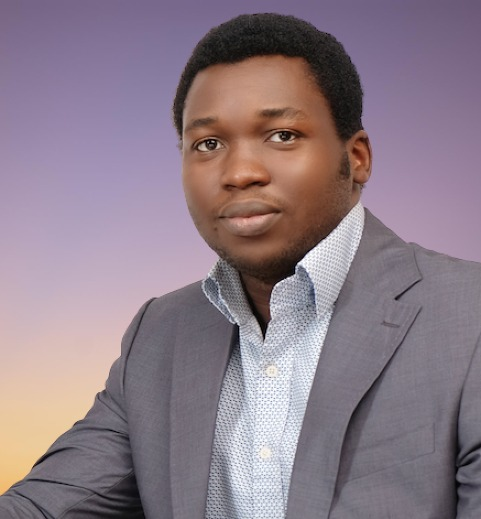
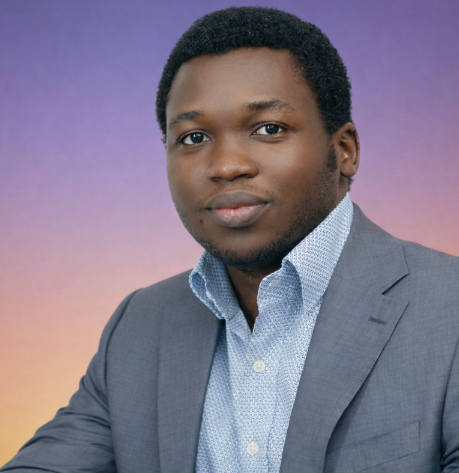
update photo amd modal

diff --git a/src/components/Projects/Projects.tsx b/src/components/Projects/Projects.tsx
@@ -39,7 +39,7 @@ const Work = () => {
         {work.map((project: WorkInterface, index: number) => {
           return (
             <div key={project.link} className="work_wrapper">
-              <div className="relative image" style={{
+              <div className={`relative image ${!project.photos?.length ? 'hidden md:block' : ''}`} style={{
                 marginLeft: willFloatRight(index) ? '' : 'auto'
               }}>
                 {!!project.photos?.length && <>
@@ -54,7 +54,7 @@ const Work = () => {
                       objectFit: 'contain' 
                     }} />
                   <button 
-                    className={`absolute bottom-2 ${willFloatRight(index) ? 'left-2' : 'right-2'} z-[999]`}
+                    className={`hidden lg:block absolute bottom-2 ${willFloatRight(index) ? 'left-2' : 'right-2'} z-[999]`}
                     onClick={() => handleOpenModal(project)}
                   >
                     <Maximize className="maximize-icon" />

diff --git a/src/components/About/About.scss b/src/components/About/About.scss
@@ -62,7 +62,7 @@
       top: 48px;
       right: 2px;
       width: 280px;
-      height: 300px;
+      height: 290px;
       border-radius: 4px;
       border: 1px solid var(--accent-purple);
     }
@@ -73,7 +73,7 @@
       top: 0;
       right: 0;
       width: 280px;
-      height: 300px;
+      height: 290px;
       background: teal;
       z-index: 2;
       opacity: 0.2;

diff --git a/src/components/Modal.tsx b/src/components/Modal.tsx
@@ -25,7 +25,7 @@ const Modal = (
 
   return (
     <div
-      className="fixed inset-0 z-50 flex items-center justify-center bg-black/50"
+      className="fixed inset-0 z-50 px-5 flex items-center justify-center bg-black/50"
       onClick={onClose}
     >
       <div
